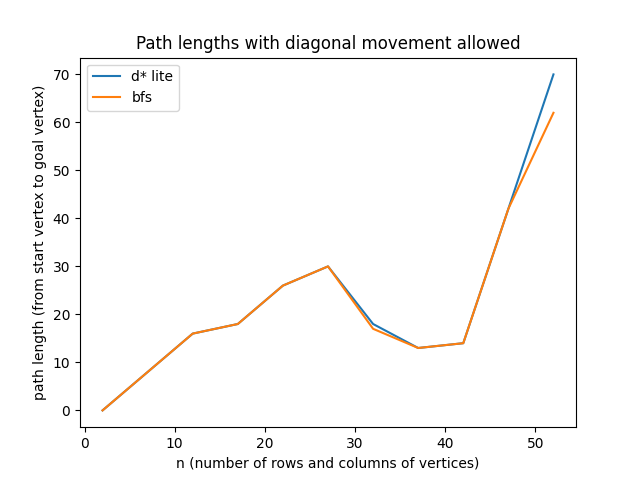
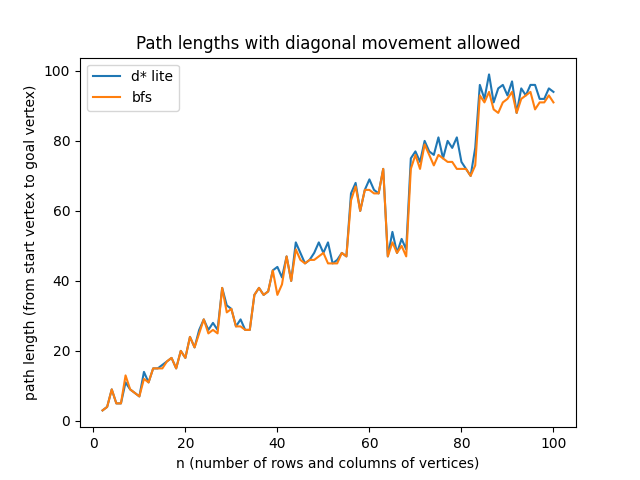
i forgor

diff --git a/collect_data.py b/collect_data.py
@@ -1,4 +1,5 @@
 from typing import Tuple
+from statistics import median
 import random
 import time
 from graph import Graph
@@ -8,22 +9,22 @@ from algorithms import algorithms
 algorithm_names = list(algorithms.keys())
 
 # define range of n to gather data about
-n_lo, n_hi, n_step = 2, 53, 5
+n_lo, n_hi, n_step = 2, 101, 1
 
 # repeat each measurement this many times:
 num_trials = 5
 
 # use the same seed for all the algorithms to compare them on the exact same mazes
-random_seed = 69
+random_seed = random.randint(69, 420)
 random.seed(random_seed)
-
-def measure_performance(algorithm_name : str, n : int, allow_diagonal_movement : bool) -> Tuple[int, int]:
+    
+def measure_performance(algorithm_name : str, graph_to_clone : Graph) -> Tuple[int, int]:
     # record execution time and path length
     execution_time = 0
     path_length = 0
     
-    # generate maze and initialize algorithm
-    G = Graph(n=n, allow_diagonal_movement=allow_diagonal_movement, random_seed=random_seed)
+    # cloned already generated maze and initialize algorithm
+    G = Graph(random_seed=random_seed, graph_to_clone=graph_to_clone)
     start = time.time_ns()
     algorithm = algorithms[algorithm_name](G)
     end = time.time_ns()
@@ -36,10 +37,10 @@ def measure_performance(algorithm_name : str, n : int, allow_diagonal_movement :
     execution_time += end - start
 
     # parametrize the number of steps before the mazes change 
-    m_steps = 5
+    m_steps = 5 + 10 * (G.n // 25)
     m = m_steps
 
-    while (algorithm.G.start != algorithm.G.goal):
+    while (G.start != G.goal):
         path_length += 1
 
         # pick a successor and move to it
@@ -47,13 +48,13 @@ def measure_performance(algorithm_name : str, n : int, allow_diagonal_movement :
         new_start = algorithm.PickSuccessor()
         end = time.time_ns()
         execution_time += end - start
-        algorithm.G.MoveStart(new_start)
+        G.MoveStart(new_start)
 
         # m_steps have been made, so change the graph and allow the algorithm to adapt
         if m == 0:
             m = m_steps
             # changed_edges = G.AddEdges() if random.randint(0, 1) else G.RemoveEdges()
-            changed_edges = algorithm.G.AddEdges()
+            changed_edges = G.AddEdges()
             # changed_edges = G.RemoveEdges()
             start = time.time_ns()
             algorithm.AdaptToChanges(changed_edges)
@@ -63,30 +64,28 @@ def measure_performance(algorithm_name : str, n : int, allow_diagonal_movement :
     
     return (execution_time, path_length)
 
-# generate rows of data
-data = [[str(n)] for n in range(n_lo, n_hi, n_step)]
-# for each algorithm and movement setting:
-for algorithm_name in algorithm_names: 
-    for allow_diagonal_movement in [True, False]:
-        # track the index of the row where the data should be added
-        i = 0
-        # try various graph sizes
-        for n in range(n_lo, n_hi, n_step):
-            execution_times, path_lengths = 0, 0
-            for trial in range(0, num_trials):
-                execution_time, path_length = measure_performance(algorithm_name=algorithm_name, n=n, allow_diagonal_movement=allow_diagonal_movement)
-                execution_times += execution_time
-                path_lengths += path_length # this number is probably constant across trials but whatever
-            data[i].append(str((execution_times // num_trials) * 10**(-9)))
-            data[i].append(str(path_lengths // num_trials))
-            i += 1
-
 with open('collected_data.csv', 'w') as out:
     # generate and write csv column headers
     header = 'n'
     for name in algorithm_names:
         header += f',{name} diag timing,{name} diag length,{name} no diag timing,{name} no diag length'
     out.write(f'{header}\n')
-    # write each row of data
-    for row in data:
-        out.write(f"{','.join(row)}\n")
+    # generate rows of data and write them immediately
+    # regarding various graph sizes for each algorithm and movement setting
+    for n in range(n_lo, n_hi, n_step):
+        print(f'Measuring algorithm performance on mazes with n = {n} ...')
+        data = [str(n)]
+        # memoize maze generation (not even sure if this improves data collection time)
+        diag_graph = Graph(n=n, allow_diagonal_movement=True, random_seed=random_seed)
+        no_diag_graph = Graph(n=n, allow_diagonal_movement=False, random_seed=random_seed)
+        for algorithm_name in algorithm_names: 
+            for allow_diagonal_movement in True, False:
+                execution_times, path_lengths = [], []
+                for trial in range(0, num_trials):
+                    execution_time, path_length = measure_performance(algorithm_name=algorithm_name, graph_to_clone=diag_graph if allow_diagonal_movement else no_diag_graph)
+                    execution_times.append(execution_time)
+                    path_lengths.append(path_length) # this number is probably constant across trials but whatever
+                data.append(str(median(execution_times) * 10**(-9)))
+                data.append(str(median(path_lengths)))
+        out.write(f"{','.join(data)}\n")
+print('Finished measuring algorithm performance...')

diff --git a/graph.py b/graph.py
@@ -1,5 +1,6 @@
 import sys
 import random
+from copy import deepcopy
 from typing import Tuple, List, Optional
 
 class Graph():
@@ -14,12 +15,20 @@ class Graph():
 
     # n = number of rows and columns (nxn maze)
     # precondition: n > 1
-    def __init__(self, n : int=2, allow_diagonal_movement : bool=False, maze_to_recreate : str='', random_seed : Optional[int]=None):
+    def __init__(self, n : int=2, allow_diagonal_movement : bool=False, maze_to_recreate : str='', random_seed : Optional[int]=None, graph_to_clone=None):
         # seed random number generator
         if random_seed:
             random.seed(random_seed)
+        # clone the given graph
+        if graph_to_clone:
+            self.old_n = graph_to_clone.old_n
+            self.n = graph_to_clone.n
+            self.allow_diagonal_movement = graph_to_clone.allow_diagonal_movement
+            self.start = tuple(graph_to_clone.start)
+            self.goal = tuple(graph_to_clone.goal)
+            self.maze = deepcopy(graph_to_clone.maze)
         # randomly generate maze
-        if not maze_to_recreate:
+        elif not maze_to_recreate:
             self.old_n = n
             self.n = self.old_n + self.old_n - 1 # even the maze isn't safe from inflation
             self.allow_diagonal_movement = allow_diagonal_movement
@@ -39,7 +48,7 @@ class Graph():
             self.maze[self.start[0]][self.start[1]] = self.ENDPOINT
             self.maze[self.goal[0]][self.goal[1]] = self.ENDPOINT
             # (cheekily) increase the recursion limit to allow for larger maze generation
-            sys.setrecursionlimit(10000) 
+            sys.setrecursionlimit(1000000) 
             # knock down walls until the graph is connected
             visited = [[False] * self.n for _ in range(self.n)] 
             self.GenerateWalls(self.start, visited)

diff --git a/main.py b/main.py
@@ -7,9 +7,9 @@ algorithm_name = 'd* lite'
 # initialize graph and algorithm 
 maze_to_recreate = '' # replace with 'previous_maze.txt' to use the last maze
 G = Graph(n=10, allow_diagonal_movement=True, maze_to_recreate=maze_to_recreate)
-algorithm = algorithms[algorithm_name](G)
 with open('previous_maze.txt', 'w') as f:
-    f.write(algorithm.G.GetRecreationInfo())
+    f.write(G.GetRecreationInfo())
+algorithm = algorithms[algorithm_name](G)
 algorithm.ComputePath() 
 print(algorithm.G)
 

diff --git a/README.md b/README.md
@@ -148,7 +148,6 @@ The following are the files you would need to familiarize yourself with and upda
 - `algorithms.py` contains mappings from search algorithm names to their respective classes. This furthers the goal of making ALE extensible as it reduces the amount of code to update in order to integrate additional search algorithms.
 - `dstarlite.py` provides an implementation of the D* Lite algorithm from the paper [**D* Lite**](https://idm-lab.org/bib/abstracts/papers/aaai02b.pdf) written by Sven Koenig and Maxim Likhachev.
 - `entry.py` provides the implementation of the special entries used in the priority queue in `dstarlite.py`.
-- `tests.py` is supposedly where unit tests for D* Lite should go.
 - `bfs.py` provides an implementation of Breath First Search.
 
 ### Visualization and Experimentation
